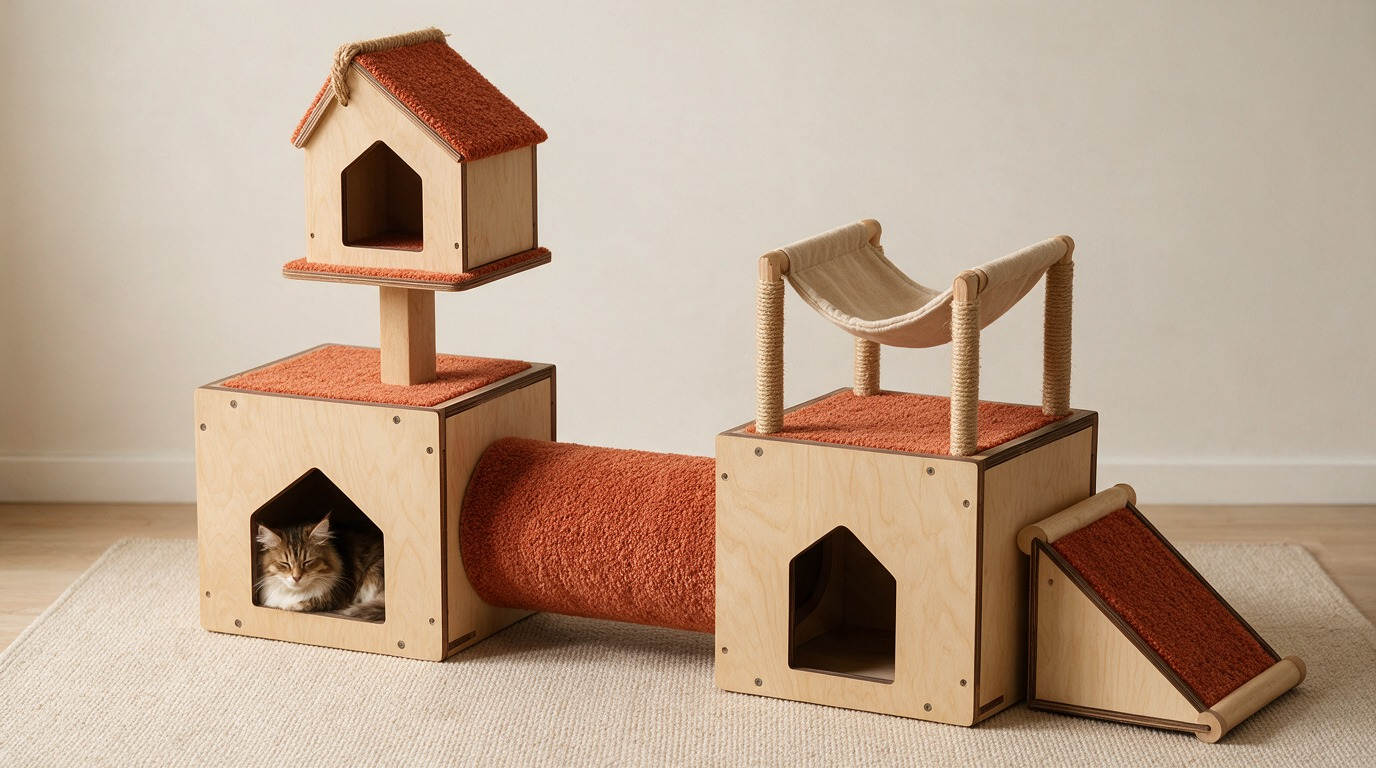
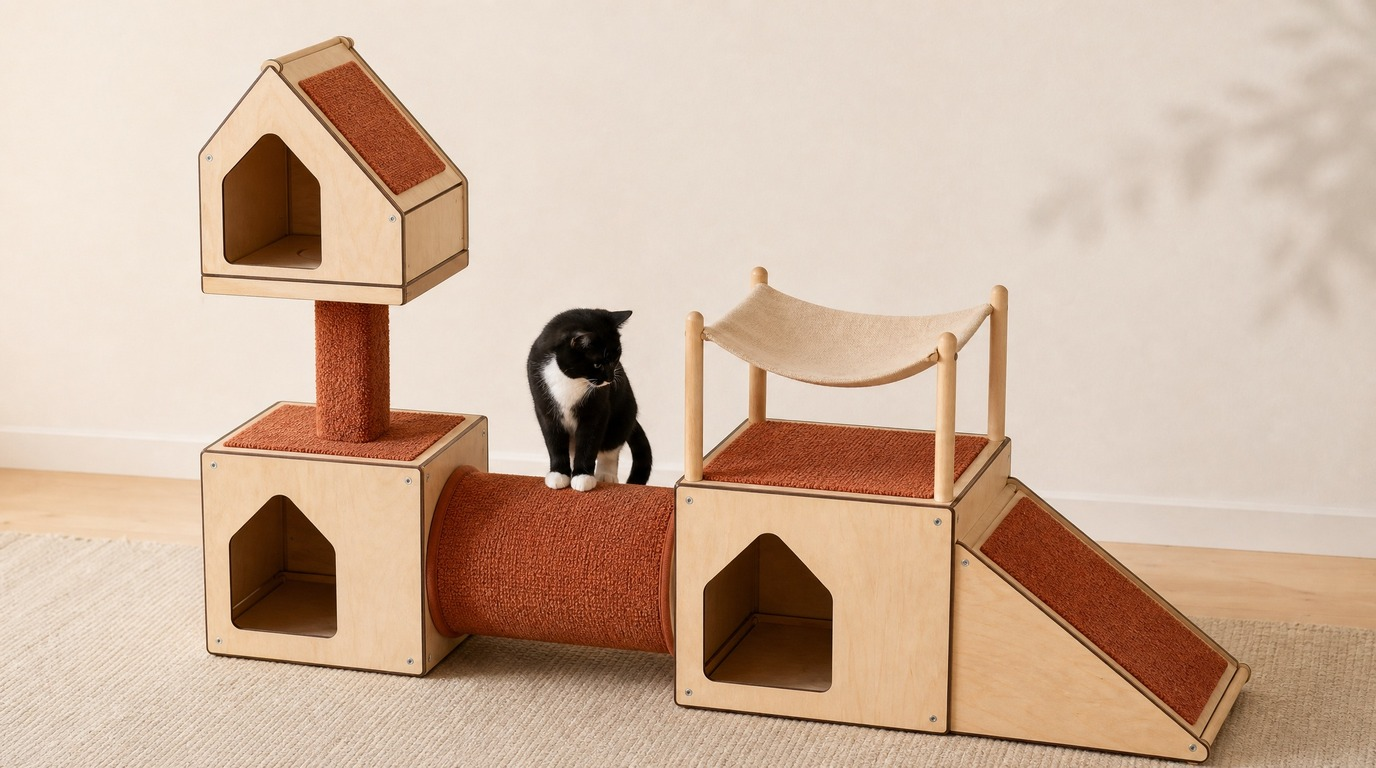
Карточки готовых сборок: перегенерация на gpt-5.4-image-2 @ 2K + правила модулей
Все шесть пресетов переснято одним пайплайном (?solo-снимок первым референсом
+ карточки модулей FINAL_*), 2048×1152 → 1376×768:
«Новичок», «Проныра», «Вальяжный», «Резиденция», «Дозорный», «Непоседа».

Конструктор:
- ОБЩЕЕ ПРАВИЛО: несущие вертикали обёрнуты когтеточным ковролином —
  хелперы pillarBox()/pillarCyl() (столб-башня, колонна под чашей).
- Исключение — тонкие стойки гамака: берёзовые, но КРУГЛЫЕ точёные шканты
  без острых рёбер (woodPost()).
- Лазы по умолчанию: «Новичок» — квадрат, «Вальяжный» — круг (entries
  в KD.PRESETS, работает и в обычном режиме, и в ?solo).
- Бамп ассетов ?v→58.

Документация: docs/video-brandworld.md переименован в
docs/brandworld_description.md и дополнен разделами — общие правила
геометрии модулей (кубы одного габарита, крыши по ширине куба, различие
только по глубине), «референс сильнее текста», правила рендеров
(взгляд/масштаб котов, стена без теней, швы, тоннель) и актуальный
пайплайн gpt-5.4-image-2 @ 2K с ключом POLZA_MEDIA_API_KEY.
Поправлен размер рендеров: 1376×768, а не 1024×768.

diff --git a/js/scene.js b/js/scene.js
@@ -108,6 +108,23 @@ let dimLabels = [];        // подписи размеров ковра: {m, e,
 /* ---------- helpers ---------- */
 function box(a, o){ return new Zdog.Box(Object.assign({ addTo:a, stroke:1 }, o)); }
 
+/* ОБЩЕЕ ПРАВИЛО: любая несущая опора — стойка, колонна, столб — обёрнута
+   когтеточным материалом (цвет следует за коллекцией, как у пандуса и крыш).
+   Кот должен иметь возможность точить когти о ЛЮБОЙ вертикальный столб.
+   Дерево остаётся только у оснований, площадок и горизонтальных реек.
+   ИСКЛЮЧЕНИЕ — стойки гамака: они тонкие, ковролин на них не читается, поэтому
+   оставлены берёзовыми. Но тогда они обязаны быть БЕЗОПАСНЫМИ: не брусок с
+   острыми рёбрами, а точёный КРУГЛЫЙ шкант — острых кромок нет в принципе
+   (тот же язык, что у дюбель-реек пандуса). См. woodPost(). */
+const pillarBox = () => ({ color:P.carpet, topFace:P.carpet, bottomFace:P.carpetDeep,
+  leftFace:P.carpetDeep, rightFace:P.carpet, frontFace:P.carpet, rearFace:P.carpetDeep });
+const pillarCyl = () => ({ color:P.carpet, frontFace:P.carpet, backface:P.carpetDeep });
+/* круглая берёзовая стойка-шкант: без острых рёбер, безопасна для кота */
+function woodPost(a, o){
+  return new Zdog.Cylinder(Object.assign({ addTo:a, rotate:{ x:TAU/4 }, stroke:false,
+    color:P.wood, frontFace:P.woodTop, backface:P.wood2 }, o));
+}
+
 /* лаз и прорези сидят в нижней части фронта: после наклона сцены их средняя
    глубина оказывается ЗА фронтальной гранью куба и сортировка красила бы их
    под ней — поэтому sortValue смещаем вручную (тот же приём, что у roomG) */
@@ -342,9 +359,8 @@ function makeModule(type, parent, opts){
       stroke:4, color:P.edge });
   }
   else if (type === "tower"){
-    box(a, { width:14, height:SB-(B-(H-9)), depth:14, translate:{ y: (B-(H-9)+SB)/2 },
-      topFace:P.wood2, color:P.wood2, leftFace:P.juteDark, rightFace:P.wood2,
-      frontFace:P.wood2, rearFace:P.juteDark });
+    box(a, Object.assign({ width:14, height:SB-(B-(H-9)), depth:14,
+      translate:{ y: (B-(H-9)+SB)/2 } }, pillarBox()));   // опора-столб → когтеточка
     woodBox({ width:S, height:9, depth:S-4, translate:{ y: -B + 5.5 } });  // площадка вровень с модулем (не шире)
     new Zdog.Ellipse({ addTo:a, width:S*0.6, height:S*0.44,
       rotate:{ x:TAU/4 }, translate:{ y: -B + 0.5 }, stroke:7, fill:true, color:P.sling });  // подушка в цвет коллекции
@@ -356,10 +372,8 @@ function makeModule(type, parent, opts){
     // стойки — на УГЛАХ куба снизу: outer-грань стойки почти вровень с ребром куба
     // (S/2), лёгкий отступ 3, чтобы не перекрывать угловой шов и не свисать с ребра
     const TY = B - H + 14, px = S/2 - 3, pz = S/2 - 3, sag = 30;
-    [-1,1].forEach(sx => [-1,1].forEach(sz => box(a, { width:5, height:SB-TY, depth:5,
-      translate:{ x:sx*px, z:sz*pz, y:(TY+SB)/2 }, color:P.wood2,
-      topFace:P.woodTop, leftFace:P.juteDark, rightFace:P.wood2,
-      frontFace:P.wood2, rearFace:P.juteDark, bottomFace:P.juteDark })));
+    [-1,1].forEach(sx => [-1,1].forEach(sz => woodPost(a, { diameter:6, length:SB-TY,
+      translate:{ x:sx*px, z:sz*pz, y:(TY+SB)/2 } })));   // круглые берёзовые шканты
     // Полотно — сплошная залитая ткань от передней кромки до задней (закрывает
     // зазор между ними, где торчат стойки). Рисуем ПОВЕРХ стоек (sortValue+),
     // чтобы верхушки правых стоек ушли под ткань, как у левых.
@@ -385,11 +399,9 @@ function makeModule(type, parent, opts){
     const TY = B - H + 4, pz = S/2 - 3;    // стойки на углах: вынос к рёбрам куба
     const Lx = -(S/2-3), Rx = X2+(S/2-3);
     // ЧЕТЫРЕ стойки: левый и правый край, перёд+зад
-    [{ x:Lx, s:SB }, { x:Rx, s:SB2 }].forEach(p => [-1,1].forEach(sz => box(a, {
-      width:5, height:p.s-TY, depth:5,
-      translate:{ x:p.x, z:sz*pz, y:(TY+p.s)/2 }, color:P.wood2,
-      topFace:P.woodTop, leftFace:P.juteDark, rightFace:P.wood2,
-      frontFace:P.wood2, rearFace:P.juteDark, bottomFace:P.juteDark })));
+    [{ x:Lx, s:SB }, { x:Rx, s:SB2 }].forEach(p => [-1,1].forEach(sz =>
+      woodPost(a, { diameter:6, length:p.s-TY,
+        translate:{ x:p.x, z:sz*pz, y:(TY+p.s)/2 } })));   // круглые берёзовые шканты
     // полотно — сплошная залитая ткань (перед→зад), поверх стоек: их верхушки уходят под ткань
     const fSag = 24, bSag = 14, cx1 = X2/2-16, cx2 = X2/2+16;
     const cloth = new Zdog.Shape({ addTo:a, fill:true, stroke:6, color:P.sling, closed:true, path:[
@@ -497,8 +509,8 @@ function makeModule(type, parent, opts){
     const foot = new Zdog.Cylinder({ addTo:a, diameter:34, length:8, rotate:{ x:TAU/4 },
       translate:{ y: B - 4 }, color:P.wood2, frontFace:P.woodTop, backface:P.wood2, stroke:false });
     // колонна-опора, высотой почти во весь модуль — как у когтеточки
-    const col = new Zdog.Cylinder({ addTo:a, diameter:16, length:46, rotate:{ x:TAU/4 },
-      translate:{ y: B - 31 }, color:P.wood, frontFace:P.wood, backface:P.wood2, stroke:false });
+    const col = new Zdog.Cylinder(Object.assign({ addTo:a, diameter:16, length:46,
+      rotate:{ x:TAU/4 }, translate:{ y: B - 31 }, stroke:false }, pillarCyl()));  // опора → когтеточка
     boostSort(foot, 14); boostSort(col, 14);   // над швом куба-опоры (+6 в cubeSeams)
     // чаша: полусфера куполом вниз, приплюснута по высоте — гнездо шире, чем глубже.
     // Тело чаши прозрачное (акрил) и пустое — единственное непрозрачное здесь — опора-колонна,

diff --git a/index.html b/index.html
@@ -16,15 +16,15 @@
 <link rel="preload" href="fonts/mplusrounded1c-800-jp.woff2" as="font" type="font/woff2" crossorigin>
 <!-- ?v= на стилях и скриптах: кэш Pages/браузера обновляется вместе с index.html,
      а не живёт своей жизнью до 10 минут после деплоя -->
-<link rel="stylesheet" href="css/fonts.css?v=53">
-<link rel="stylesheet" href="css/style.css?v=53">
-<script defer src="config.js?v=53"></script>
-<script defer src="js/zdog.dist.min.js?v=53"></script>
-<script defer src="js/catalog.js?v=53"></script>
-<script defer src="js/scene.js?v=53"></script>
-<script defer src="js/configurator.js?v=53"></script>
-<script defer src="js/chat.js?v=53"></script>
-<script defer src="js/app.js?v=53"></script>
+<link rel="stylesheet" href="css/fonts.css?v=58">
+<link rel="stylesheet" href="css/style.css?v=58">
+<script defer src="config.js?v=58"></script>
+<script defer src="js/zdog.dist.min.js?v=58"></script>
+<script defer src="js/catalog.js?v=58"></script>
+<script defer src="js/scene.js?v=58"></script>
+<script defer src="js/configurator.js?v=58"></script>
+<script defer src="js/chat.js?v=58"></script>
+<script defer src="js/app.js?v=58"></script>
 </head>
 <body>
 

diff --git a/js/catalog.js b/js/catalog.js
@@ -77,11 +77,13 @@ KD.MODULES = {
    план). Постройки с 1–2 кубами оставляем на дефолте. */
 KD.PRESETS = {
   start: { name: "Новичок", cells: { 1: "base", 6: "roof", 2: "scratch" },
+    entries: { 1: "square" },
     say: "Куб-нора с чердаком-крышей и когтеточка — самое то для первого знакомства." },
   wide:  { name: "Проныра", cells: { 1: "base", 2: "tunnel", 3: "base", 6: "roof", 8: "hammock" },
     entries: { 1: "square", 3: "square" },
     say: "Куб с чердаком-крышей, тоннель к соседу и гамак сверху — маршрут для пробежек и засад." },
   tower: { name: "Вальяжный", cells: { 1: "base", 6: "tower", 11: "roof", 2: "scratch" },
+    entries: { 1: "circle" },
     say: "Куб, смотровая площадка и крыша над ней — наблюдать за домом сверху." },
   manor: { name: "Резиденция",
     cells: { 0: "base", 1: "tunnel", 2: "base", 3: "scratch", 5: "tower", 7: "hammock", 10: "roof" },

diff --git a/docs/brandworld_description.md b/docs/brandworld_description.md
@@ -1,9 +1,12 @@
-# Видео-брендворлд Котоши
+# Брендворлд Котоши
 
 Единый визуальный референс, который используется при генерации всех
 AI-роликов и рендеров для сайта (hero-рендеры и видео под hero), чтобы
 конструкция, комната и кот выглядели одинаково от кадра к кадру и от
 ролика к ролику.
+
+> Файл переименован из `video-brandworld.md`: он давно описывает не только
+> видео, но и фото-рендеры готовых сборок и общие правила геометрии модулей.
 
 ## Референсное изображение
 
@@ -96,8 +99,102 @@ Hero-рендеры готовых сборок (`assets/render_*.jpg`) долж
    (берёзовая фанера с тёмной кромкой-венге, ковролиновые площадки, шканты,
    винты; см. `media_references/`, срезать/закрасить фирменные надписи,
    чтобы модель не перенесла их в рендер);
-3. вписать в размер существующих `render_*.jpg` (1024×768), сжать до
+3. вписать в размер существующих `render_*.jpg` (**1376×768**), сжать до
    сопоставимого веса; старые версии — в `assets/_originals_render/`.
+
+## Общие правила геометрии модулей (2026-07-26, от Майка)
+
+**Модуль — это ОДИН стандартный габарит.** Правило действует и в конструкторе,
+и в любом рендере:
+
+- **Кубы-норы идентичны по размеру.** Все кубы — один и тот же типовой модуль:
+  одинаковая ширина и одинаковая высота, фронтальная грань — КВАДРАТ. Ни один
+  куб не растянут в лежачий прямоугольник и не крупнее соседа.
+- **Крыши-домики совпадают по ширине** с кубом, на котором стоят, и друг с
+  другом.
+- **Различаться модули могут ТОЛЬКО по глубине.** Глубина — единственный
+  размер, который варьируется между типами модулей; ширина и высота — общие.
+- **В кадре одинаковые модули должны и ВЫГЛЯДЕТЬ одинаковыми.** Дальний куб не
+  должен «усыхать» из-за перспективы. В промпт добавлять: «photograph with a
+  LONG LENS, near-orthographic view with very little perspective convergence,
+  so the left cube renders at essentially the SAME on-image size as the right
+  cube; their floor lines and top edges are level».
+
+Типичный провал моделей: куб под гамаком раздувается в широкий ящик, потому что
+модель подгоняет куб под ширину гамака. Лечится явным «the hammock is WIDER
+THAN THE CUBE and its canvas OVERHANGS the cube's edges — do NOT widen the cube
+to fit the hammock inside its footprint» плюс проверяемой формулировкой «швы
+делят ряд на N РАВНЫХ частей».
+
+## Главный урок промптинга: референс сильнее текста
+
+**Если картинка-референс и текст промпта расходятся — модель верит картинке.**
+Проверено трижды за сессию 2026-07-26:
+
+- диаметр тоннеля в рендере в точности повторял `D = S*0.78` из `js/scene.js`,
+  а не текст промпта;
+- ковролин на скате крыши упорно выходил узкой полосой (~35–40%) вместо
+  заявленных в промпте 70%, потому что в `?solo`-схеме вставка `M = 0.15`
+  сильно ракурсно сжата и модель рисует то, что ВИДИТ;
+- как только геометрию поправили в конструкторе и пересняли `?solo` — модель
+  сразу отработала правильно.
+
+**Вывод: правь геометрию в `js/scene.js` и переснимай `?solo`, а не переписывай
+промпт.** Текстовая формулировка — только подстраховка поверх исправленного
+референса.
+
+## Правила рендеров прототипов (2026-07-26)
+
+- **Опоры = когтеточка.** Любая несущая вертикаль (столб-башня, колонна под
+  чашей) обёрнута ковролином-когтеточкой по всей высоте. Исключение — тонкие
+  стойки гамака: они берёзовые, но тогда обязаны быть КРУГЛЫМИ точёными
+  шкантами со скруглённым верхом (никаких острых рёбер). Хелперы
+  `pillarBox()` / `pillarCyl()` / `woodPost()` в `js/scene.js`.
+- **Взгляд кота — мимо камеры.** Ни один кот не смотрит в объектив: «NEITHER
+  cat looks at the camera, no eye contact with the viewer, no posed head-on
+  portrait faces» + куда именно смотрит каждый кот. Без этого модель ставит
+  котов «в портрет».
+- **Масштаб кота.** Коты — обычные домашние, мелкие относительно мебели: «the
+  cat in the hammock is a compact curled-up ball taking up only the MIDDLE
+  portion of the canvas, with empty hammock visible on both sides. Keep the
+  furniture the hero».
+- **Количество котов задавать числом и запретом:** «EXACTLY ONE cat in the
+  entire picture and NO other animal anywhere — do not add a second cat», плюс
+  явно «the hammock is EMPTY», иначе модель дозаселяет пустые места.
+- **Стена спокойная.** Лёгкая размытая тень листвы в одном углу — хорошо, но
+  «NO potted plant, NO foliage, NO plant pot and no other props anywhere», иначе
+  модель ставит в кадр цветок в горшке и раскидывает тень по всей стене.
+- **Стык модулей.** «Crisp thin DARK SEAM LINE» на каждом стыке; для составных
+  башен обязательно «HORIZONTAL dark divider seam wherever an upper cube sits on
+  top of a lower cube — do NOT merge two stacked cubes into one tall box».
+- **Тоннель.** Длина видимой части ≈ ОДНА ширина куба: «a stubby barrel, not a
+  long pipe … NOT a drainpipe stretching across the frame». Иначе модель
+  разносит кубы по кадру и растягивает трубу.
+
+## Модель и пайплайн генерации фото (обновлено 2026-07-26)
+
+- **Рабочая модель — `openai/gpt-5.4-image-2`** через Polza `POST /api/v1/media`
+  с `input.image_resolution: "2K"` (требует НЕ-`auto` `aspect_ratio`),
+  `input.aspect_ratio: "16:9"`, до 16 референсов в `input.images`.
+  ~₽7 за генерацию 2048×1152. По верности схеме заметно обходит
+  `google/gemini-3.1-flash-image` и `seedream/5-pro-text-to-image`
+  (сравнение 3 моделей — сессия 2026-07-24).
+- **POST часто отваливается по таймауту, хотя задача создана.** Это нормально:
+  ловим исключение и опрашиваем `GET /api/v1/images`, забирая новую запись со
+  статусом `COMPLETED`. Слепой повтор POST = вторая платная генерация.
+- **Ключ — `POLZA_MEDIA_API_KEY` из `~/.hermes/.env`** (отдельный от чат-ключа
+  сервера; в `server/.env` его больше нет). Не логировать даже частично.
+- **Набор референсов:** первым — снимок `?solo=<пресет>` (структура, камера,
+  пропорции), далее карточки модулей `FINAL_*.jpg` (материалы, форма лазов).
+  Карточки `FINAL_tower` / `FINAL_play` уже показывают обёрнутую ковролином
+  колонну на берёзовой пяте. Расходится только `FINAL_hammock` — там другая
+  конструкция (фанерные боковины со ступеньками, без стоек): её брать ТОЛЬКО
+  на канвас, о чём писать в промпте явно.
+- **Установка результата:** `assets/render_<пресет>.jpg` — **1376×768**
+  (не 1024×768, как было написано ниже раньше); прошлую версию класть в
+  `assets/_originals_render/render_<пресет>.<дата>-<метка>.jpg`, а полноразмерный
+  2K-мастер — туда же с меткой `-2k-master`. Файлы `render_*_hero.jpg`
+  (4128×768) в вёрстке НЕ используются.
 
 **Правила композиции рендеров (2026-07-19, от Майка):**
 - **Постройка — строго в одну линию.** На этом этапе все сборки стоят в один
@@ -111,10 +208,12 @@ Hero-рендеры готовых сборок (`assets/render_*.jpg`) долж
 - Без гравировок, QR-кодов и логотипов на дереве (фирменная маркировка
   реального прототипа в рендеры не переносится).
 
-Модель для фото: `google/gemini-3.1-flash-image` через Polza `POST /api/v1/media`
-(`input.prompt`, `input.aspect_ratio:"4:3"`, `input.images:[...]`; ключ
-`POLZA_API_KEY` из `server/.env`, не логировать). `google/gemini-2.5-flash-image`
-для этого ключа ЗАПРЕЩЁН (FORBIDDEN).
+Модель для фото (устарело, см. раздел «Модель и пайплайн генерации фото» выше —
+с 2026-07-26 основная модель `openai/gpt-5.4-image-2` @ 2K, ключ
+`POLZA_MEDIA_API_KEY` из `~/.hermes/.env`): `google/gemini-3.1-flash-image` через
+Polza `POST /api/v1/media` (`input.prompt`, `input.aspect_ratio:"4:3"`,
+`input.images:[...]`). `google/gemini-2.5-flash-image` для этого ключа ЗАПРЕЩЁН
+(FORBIDDEN).
 
 **Транзиентный `UNAUTHORIZED` — НЕ перегенерировать.** Polza иногда отвечает на
 `/media` ошибкой `{"code":"UNAUTHORIZED"}`, хотя ключ рабочий (тот же ключ тут

diff --git a/docs/prebuild-brandworld.md b/docs/prebuild-brandworld.md
@@ -215,4 +215,4 @@ dark tunnel interior».
 
 - `assets/brand-anchor.jpg` — настроение интерьера (японский минимализм,
   терракотовый ковёр, ветка сакуры), передаётся в каждый запрос генерации.
-  Общий видео-брендворлд Котоши — в `docs/video-brandworld.md`.
+  Общий брендворлд Котоши — в `docs/brandworld_description.md`.
